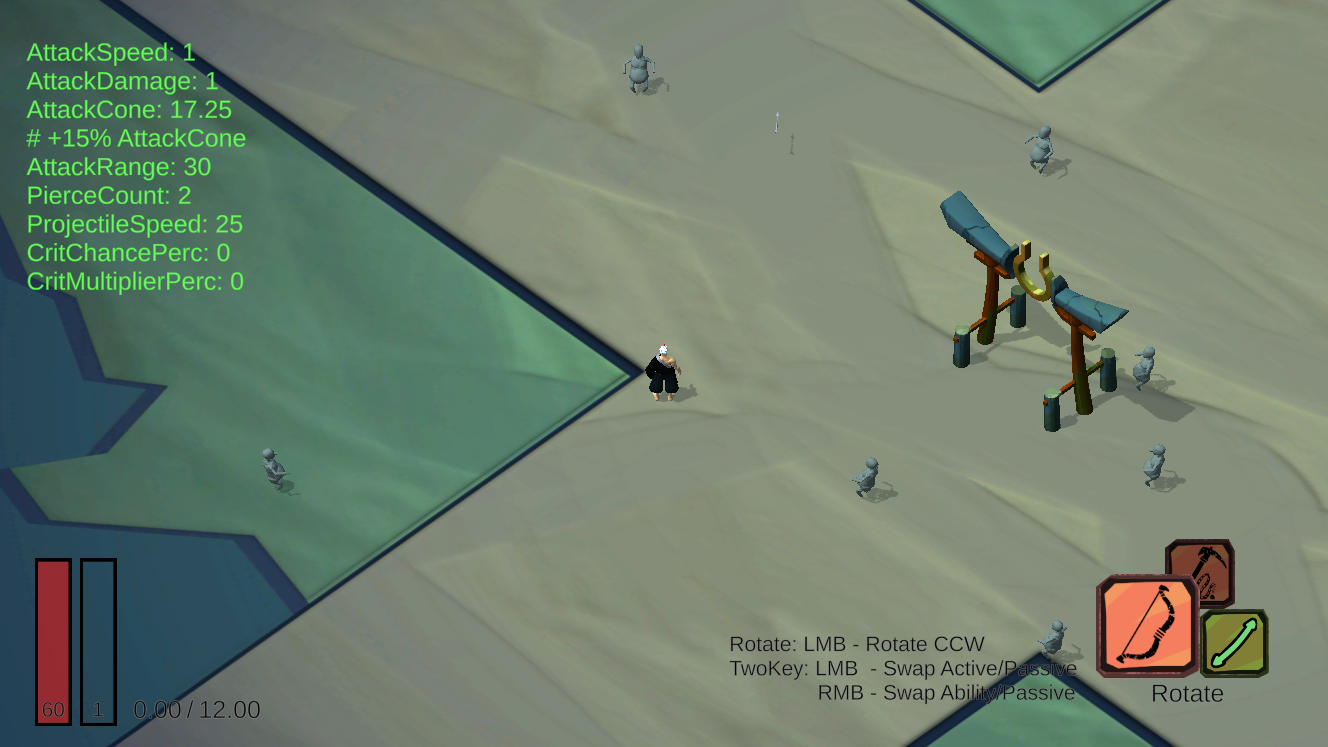
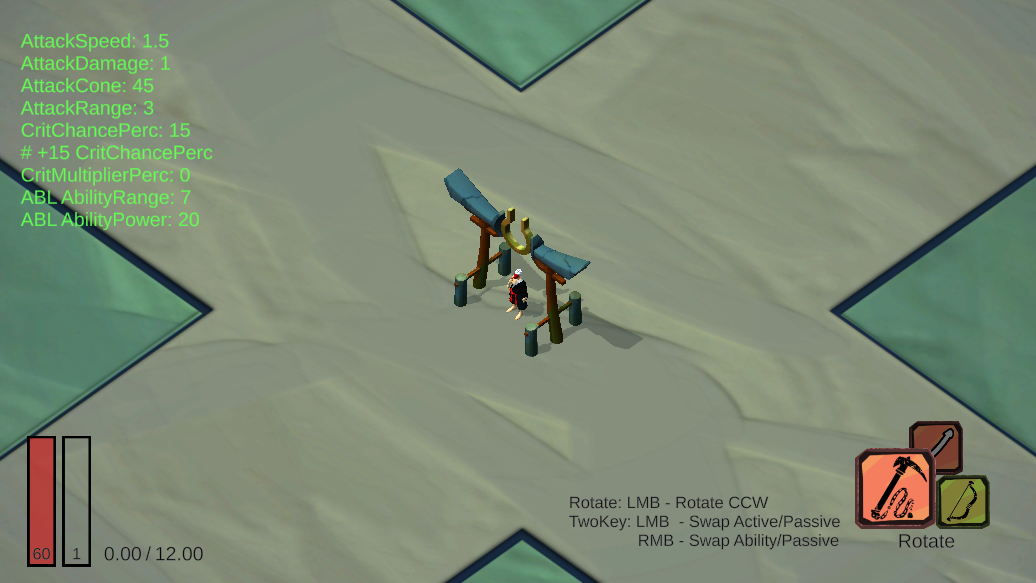
Minor upgrade mods fix

diff --git a/Assets/Scripts/Base/WeaponBase.cs b/Assets/Scripts/Base/WeaponBase.cs
@@ -19,6 +19,8 @@ public abstract class WeaponBase : MonoBehaviour
     [HideInInspector] public RectTransform UIRect;
 
 
+    [HideInInspector] public int WeaponLevel = 0;
+
     protected HeatSystem Heat;
     protected Transform Source;
 
@@ -33,6 +35,7 @@ public abstract class WeaponBase : MonoBehaviour
     protected virtual void Awake()
     {
         InstantiateSOs();
+        WeaponLevel = 0;
         Heat = Globals.Heat;
         AbilityState = AbilityState.Ready;
         UIObject = Instantiate(WeaponData.UIWeaponIcon);
@@ -57,9 +60,9 @@ public abstract class WeaponBase : MonoBehaviour
         List<WeaponUpgradeSO> upgrades = new List<WeaponUpgradeSO>();
         foreach (var upgrade in _defaultWeaponData.UpgradePath)
         {
-            upgrades.Add(Instantiate(upgrade));
+            //upgrades.Add(Instantiate(upgrade));
         }
-        WeaponData.UpgradePath = upgrades;
+        // WeaponData.UpgradePath = upgrades;
     }
 
     protected virtual void Update()
@@ -151,7 +154,7 @@ public abstract class WeaponBase : MonoBehaviour
         foreach (var mod in mods)
         {
             WeaponData.GetStat(mod.Param)?.AddModifier(mod);
-            Debug.Log($"Applied {mod} to {WeaponData.WeaponName}");
+            //Debug.Log($"Applied {mod} to {WeaponData.WeaponName}");
         }
     }
     public virtual void ClearLocalModifiers()
@@ -160,7 +163,7 @@ public abstract class WeaponBase : MonoBehaviour
         {
             stat.RemoveAllModifiersFromSource("LOCAL");
         }
-        Debug.Log($"Removed local mods from {WeaponData.WeaponName}");
+        //Debug.Log($"Removed local mods from {WeaponData.WeaponName}");
     }
     private void HandleAbilityCooldown()
     {
@@ -208,9 +211,14 @@ public abstract class WeaponBase : MonoBehaviour
             if (statMods.Count > 0)
                 foreach (var statMod in statMods)
                 {
-                    stat.RemoveModifier(statMod);
-                    statMod.CombineWith(upgradeMod);
-                    stat.AddModifier(statMod);
+                    if (statMod.Type == upgradeMod.Type)
+                    {
+                        stat.RemoveModifier(statMod);
+                        statMod.CombineWith(upgradeMod);
+                        stat.AddModifier(statMod);
+                    }
+                    else
+                        stat.AddModifier(upgradeMod);
                 }
             else
                 stat.AddModifier(upgradeMod);
@@ -227,9 +235,14 @@ public abstract class WeaponBase : MonoBehaviour
             if (statMods.Count > 0)
                 foreach (var statMod in statMods)
                 {
-                    stat.RemoveModifier(statMod);
-                    statMod.CombineWith(upgradeMod);
-                    stat.AddModifier(statMod);
+                    if (statMod.Type == upgradeMod.Type)
+                    {
+                        stat.RemoveModifier(statMod);
+                        statMod.CombineWith(upgradeMod);
+                        stat.AddModifier(statMod);
+                    }
+                    else
+                        stat.AddModifier(upgradeMod);
                 }
             else
                 stat.AddModifier(upgradeMod);
@@ -237,6 +250,7 @@ public abstract class WeaponBase : MonoBehaviour
 
         foreach (var upgradeMod in upgrade.PassiveStatMods)
         {
+            upgradeMod.Source = "LOCAL";
             var passiveMod = WeaponData.PassiveModifiers.Find(x => x.Param == upgradeMod.Param);
 
             if (passiveMod == null)
@@ -244,7 +258,9 @@ public abstract class WeaponBase : MonoBehaviour
             else
             {
                 passiveMod.CombineWith(upgradeMod);
+
             }
         }
+        WeaponLevel++;
     }
 }

diff --git a/Assets/Scripts/Base/SO/WeaponBaseSO.cs b/Assets/Scripts/Base/SO/WeaponBaseSO.cs
@@ -14,7 +14,8 @@ public abstract class WeaponBaseSO : ScriptableObject
 
     public List<Stat> Stats = new List<Stat>();
     public List<StatModifier> PassiveModifiers = new List<StatModifier>();
-    [SerializeField] public List<WeaponUpgradeSO> UpgradePath;
+    //[SerializeField] public List<WeaponUpgradeSO> UpgradePath;
+    [SerializeField] public List<WeaponUpgrade> UpgradePath;
     public float AttackSpeed { get => 1 / GetStat(StatParam.AttackSpeed).Value; }
 
     public Stat GetStat(StatParam param)

diff --git a/Assets/Scripts/ShTest.cs b/Assets/Scripts/ShTest.cs
@@ -1,0 +1,20 @@
+using System.Collections;
+using System.Collections.Generic;
+using UnityEngine;
+
+public class ShTest : MonoBehaviour
+{
+    public Material a;
+    // Start is called before the first frame update
+    void Start()
+    {
+        a.SetColor("_Gradient_Top", Color.white);
+        a.SetColor("_Gradient_Bottom", Color.blue);
+    }
+
+    // Update is called once per frame
+    void Update()
+    {
+
+    }
+}

diff --git a/Assets/Scripts/GameCore/Player/PlayerSystems.cs b/Assets/Scripts/GameCore/Player/PlayerSystems.cs
@@ -59,6 +59,10 @@ public class PlayerSystems : MonoBehaviour
     }
     private void Update()
     {
+
+        if (Input.GetKeyDown("k"))
+            _weapons[2].UpgradeToLevel(_weapons[2].WeaponLevel + 1);
+
         Debug.DrawRay(_attackSource.transform.position, _attackSource.transform.forward * 10, Color.green);
 
         if (_input.SwapWeapon && _heat.CanSwap())

diff --git a/Assets/Scripts/Base/WeaponUpgrade.cs b/Assets/Scripts/Base/WeaponUpgrade.cs
@@ -1,0 +1,14 @@
+using System;
+using System.Collections.Generic;
+using System.Linq;
+using System.Text;
+using System.Threading.Tasks;
+
+[Serializable]
+public class WeaponUpgrade 
+{
+    public int UpgradeNumber;
+    public List<StatModifier> SelfStatMods;
+    public List<StatModifier> PassiveStatMods;
+    public List<StatModifier> AbilityStatMods;
+}
